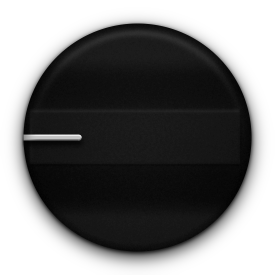
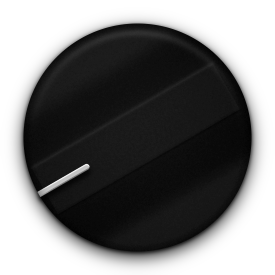
Mode: Half a -120 grados (10 % del Fade) con su texto (prueba) [skip ci]
Claude-Session: https://claude.ai/code/session_01LmYTuHAKQSU8qhR6nNkVAi

Changed region(s): [[0.0873, 0.4655, 0.32, 0.5236], [0.1164, 0.5818, 0.3491, 0.7273]]

diff --git a/UI_definitiva/generadores/bg_gen.py b/UI_definitiva/generadores/bg_gen.py
@@ -76,7 +76,8 @@ for cx,name in ((fx,"Bypass"),(1495,"SC Listen")):
 BH=base   # linea de base de Half / Whole = la de los valores de abajo
 HW=FL(30); XH=999-(119*math.sin(math.radians(30))+34*math.tan(math.radians(30)))   # centro de Half (Whole es simetrico)
 txt(XH,BH,'Whole',HW,'ms')   # Whole: donde estaba Half (abajo a la izquierda, a -150 grados)
-_hb=_ink('Half',HW,'rm'); d.text((865*S-_hb[2],800*S-(_hb[1]+_hb[3])/2),'Half',font=HW,fill=G,anchor='rm')   # Half: a la izquierda de la perilla, a la altura de su centro (-90 grados)
+_hb=_ink('Half',HW,'rm'); _hx=999-134*math.sin(math.radians(120)); _hy=800-134*math.cos(math.radians(120))   # punto a 134 del centro en la direccion del puntero de Half (-120 grados)
+d.text((_hx*S-_hb[2],_hy*S-(_hb[1]+_hb[3])/2),'Half',font=HW,fill=G,anchor='rm')   # Half: a la izquierda de ese punto, a su altura
 # escala de Depth estilo referencia: puntitos + numeros (0 dB al centro, +6 a la derecha lineal, mitad izquierda logaritmica)
 LAB=['\u2212\u221e','\u221248','\u221224','\u221212','\u22126','\u22123','0','1','2','3','4','5','6']
 cx_,cy_,R_=416,522,275; fs=FL(30)

diff --git a/UI_definitiva/generadores/knobs_gen.py b/UI_definitiva/generadores/knobs_gen.py
@@ -108,7 +108,7 @@ def atlas(name,H,mk,a0=-135,nf=NF):   # un cuadro cada 2 grados desde a0 (Depth 
 if __name__=='__main__':
     two(depth_body,DEPTH_N).save('depth_body.png'); print('depth_body',DEPTH_N//S)
     two(pol_body,POL_N).save('pol_body.png'); print('pol_body',POL_N//S)
-    mode_img(-90).save('mode_half.png'); mode_img(-150).save('mode_whole.png')   # Half a -90 (donde iria el 20 % del Fade), Whole a -150
+    mode_img(-120).save('mode_half.png'); mode_img(-150).save('mode_whole.png')   # Half a -120 (donde iria el 10 % del Fade), Whole a -150
     HD=106; HP=71
     atlas('depth_ptr.png',HD,lambda a:ptr_cell(a,RD*S,0.475*RD*S,0.85*RD*S,0.85*RD*S,col_depth,HD),a0=-150,nf=151)   # Depth: recorrido de 300 grados
     atlas('pol_ptr.png',HP,lambda a:ptr_cell(a,RP*S,(0.40/0.775)*RP*S,1.1*RP*S,RP*S,col_pol,HP),a0=-150,nf=151)   # Fade: recorrido de 300 grados

diff --git a/Source/PluginEditor.cpp b/Source/PluginEditor.cpp
@@ -549,5 +549,5 @@ void PhantomAsymEditor::mouseDown (const MouseEvent& e)
     // clic en las palabras "Half" / "Whole" elige el modo
     const auto p = e.position / scale + Point<float> ((float) kCrop, (float) kCrop);
     if (p.y >= 936.0f && p.y <= 991.0f && p.x >= 880.0f && p.x <= 960.0f) impl->mode.setWhole (true);                  // Whole: abajo a la izquierda
-    else if (p.y >= 770.0f && p.y <= 830.0f && p.x >= 785.0f && p.x <= 885.0f) impl->mode.setWhole (false);          // Half: a la izquierda de la perilla
+    else if (p.y >= 840.0f && p.y <= 895.0f && p.x >= 785.0f && p.x <= 890.0f) impl->mode.setWhole (false);          // Half: a la izquierda de la perilla
 }
